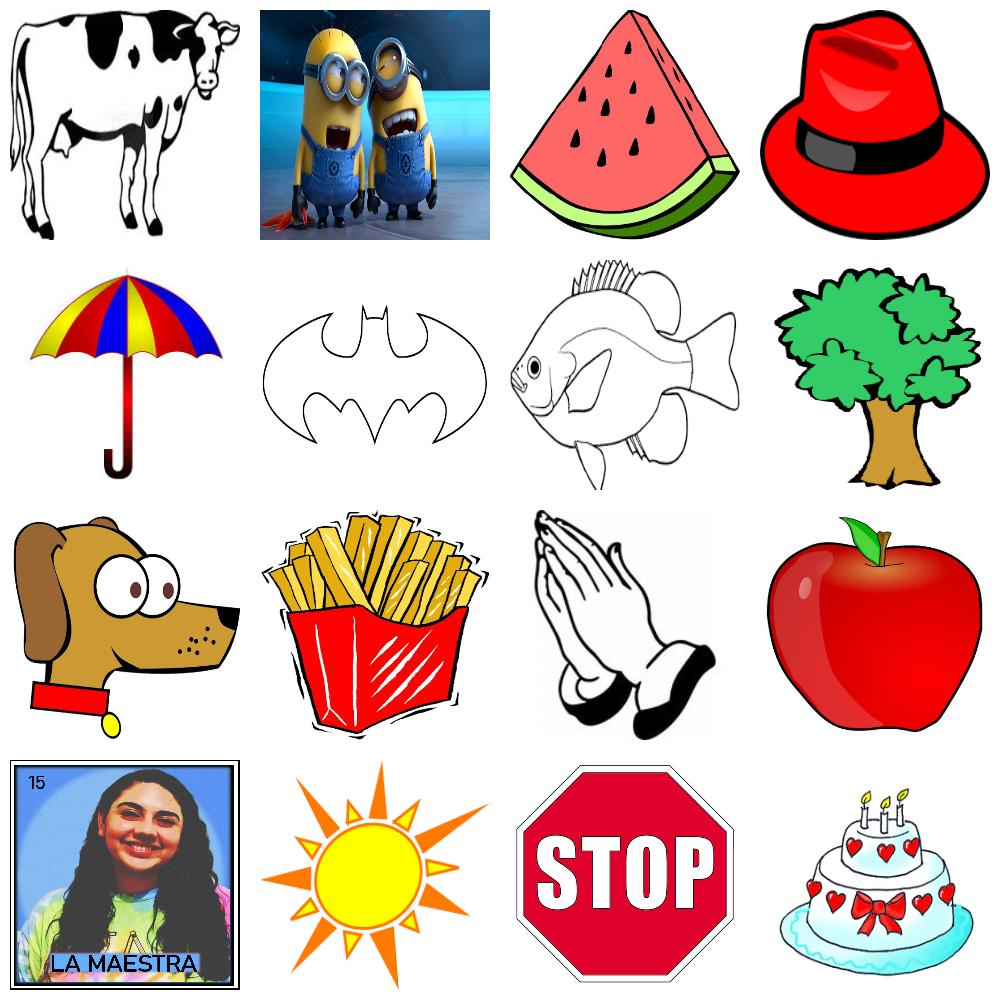
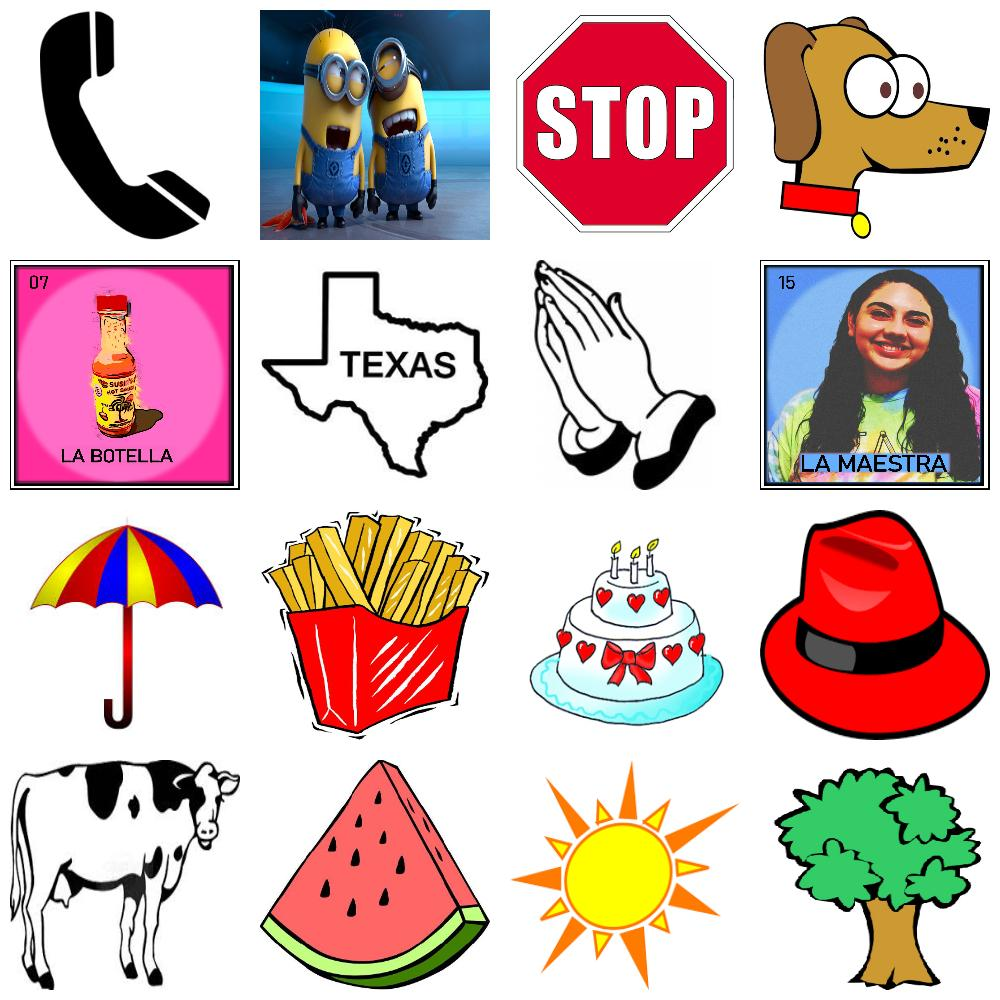
added another picture

diff --git a/MainCalss.py b/MainCalss.py
@@ -1,5 +1,4 @@
 import numpy as np
-import PIL
 from PIL import Image
 import os
 import cv2
@@ -8,11 +7,16 @@ from numpy.random._generator import default_rng
 INPUT_DIR = "input_images"
 OUTPUT_DIR = "output_images"
 
+
 img_path = os.path.join(INPUT_DIR, "cake.jpg")
 
 
 def load_images_from_dir(data_dir, ext=".jpg", size=(180, 180)):
     imagesFiles = [f for f in os.listdir(data_dir) if f.endswith(ext)]
+    # imagesFiles = []
+    # for f in os.listdir(data_dir):
+    #     if f.endswith(ext):
+    #         imagesFiles.append(f)
 
     card_deck = []
     count = 0
@@ -42,6 +46,7 @@ class My_main:
         self.cards_made = []
         self.card_made_values = []
         self.card_num_to_make = 2
+        self.num_pict_per_card = 16
         pass
 
     def Start(self):
@@ -52,10 +57,13 @@ class My_main:
         #     # cv2.waitKey(0)
 
         name_index = 0
+        print(len(self.deck.card_list))
+        num_choices = len(self.deck.card_list)
+
         for i in range(self.card_num_to_make):
             # Pick 16 Random Cards
             rng = default_rng()
-            random_array = rng.choice(19, size=16, replace=False)  # numbers 0 - 53
+            random_array = rng.choice(num_choices, size=self.num_pict_per_card, replace=False)  # numbers 0 - 53
             # random_array = np.random.randint(low=1, high=54, size=16)
             random_array = np.array(random_array)
             print(random_array)
